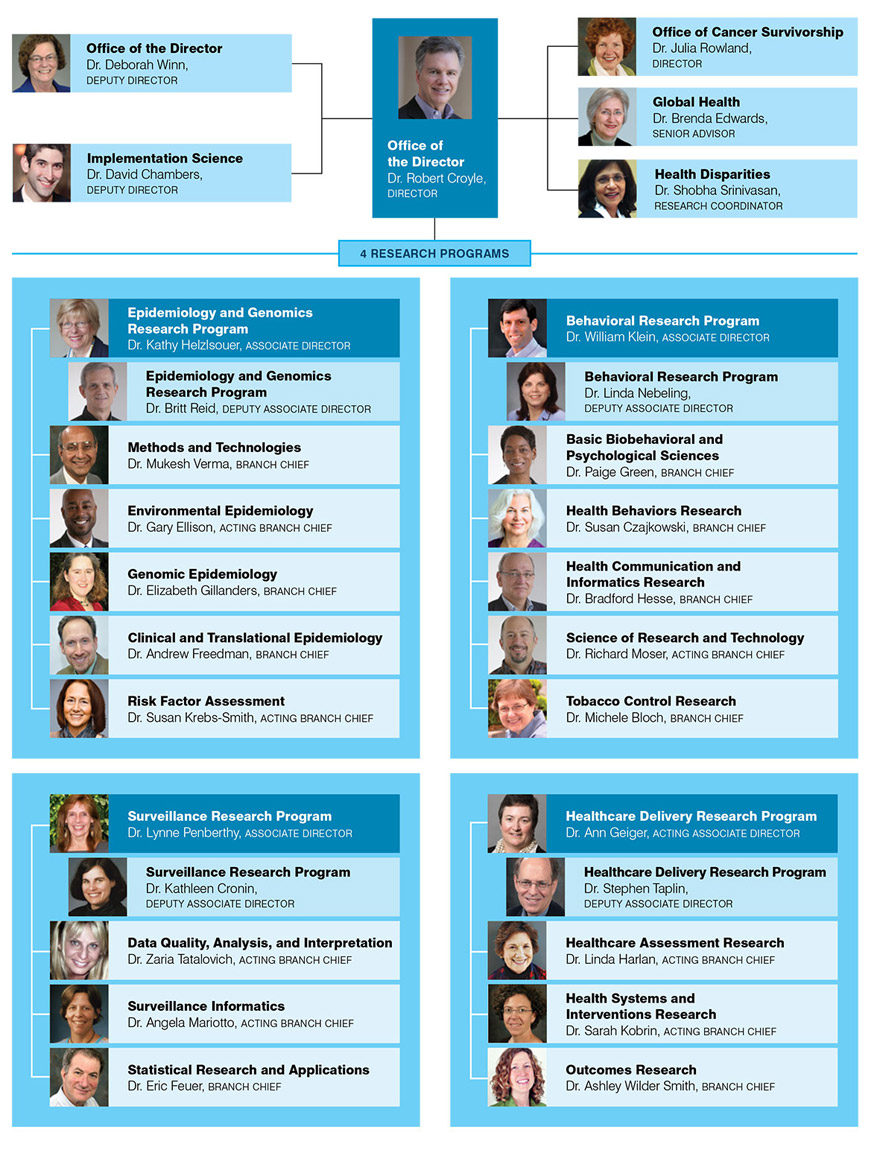
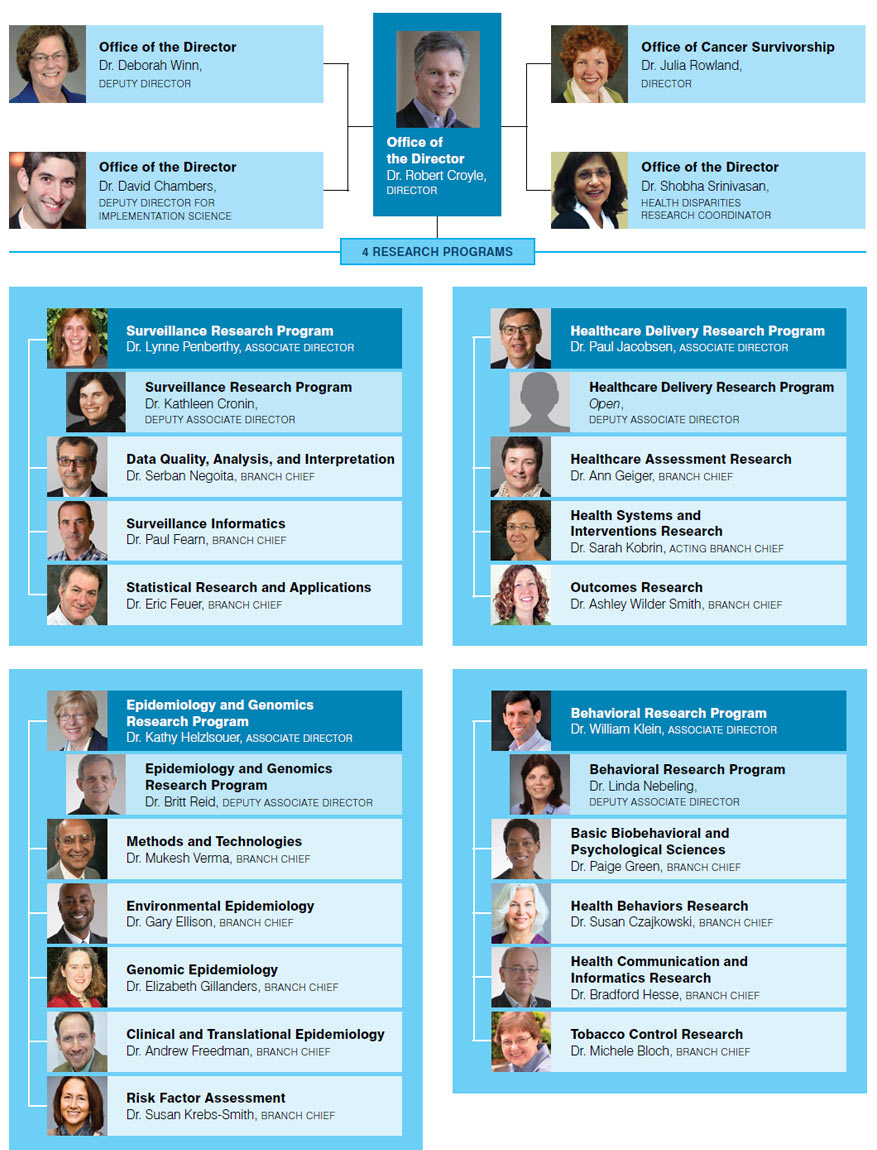
CD: Org Chart updates Former-commit-id: 762d2105123fce5dc7f2a93bcb85aca625cef169

diff --git a/od/orgchart.html b/od/orgchart.html
@@ -178,27 +178,26 @@ j=d.createElement(s),dl=l!='dataLayer'?'&l='+l:'';j.async=true;j.src=
                 <div class="span12 listimage">
                   <h1>DCCPS Organization</h1>
                   <img src="../images/bb_org-sm.jpg" alt="Orgchart" width="877" height="1150" border="0" usemap="#map3" />
-                  <map name="map3"><area shape="rect" coords="552,152,865,229" href="/populationhealthcenters/cphhd/" alt="Dr. Shobha Sirnivasan, Health Disparities Research Coordinator"><area shape="rect" coords="494,992,850,1054" href="http://healthcaredelivery.cancer.gov/about/" alt="Health Systems and Interventions Research - Dr. Sarah Korbin" ><area shape="rect" coords="493,927,852,989" href="http://healthcaredelivery.cancer.gov/about/" alt="Healthcare Assessment Research - Dr. Lynne Harlan" ><area shape="rect" coords="41,485,404,547" href="http://epi.grants.cancer.gov/eeb/" alt="Environmental Epidemiology - Dr. Gary Ellison"><area shape="rect" coords="510,864,853,924" href="http://healthcaredelivery.cancer.gov/about/staff/bios/taplin.html" alt="Health Services &amp; Economics Branch - Dr. Stephen Taplin, deputy associate director"><area shape="rect" coords="512,359,850,421" href="/brp/" alt="Behavioral Research Program - Dr. Linda Nebeling, deputy associate director">
-        <area shape="rect" coords="494,616,850,679" href="/brp/srtb/" alt="Science of Research &amp; Techonology Branch - Dr. William Riley">
-        <area shape="rect" coords="10,152,325,229" href="/IS/chambers.html" alt="Deputy Director for Implementation Science - Dr. David Chambers">
-        <area shape="rect" coords="46,1057,408,1119" href="https://surveillance.cancer.gov/branches/srab/" alt="Statistical Methodology and Applications - Dr. Eric Feuer">
-        <area shape="rect" coords="41,617,403,677" href="http://epi.grants.cancer.gov/cteb/" alt="Clinical and Translational Epidemiology Branch - Dr. Andrew Feedman">
-        <area shape="rect" coords="47,991,409,1053" href="https://surveillance.cancer.gov/branches/sib/" alt="Surveillance Informatics - Dr. Angela Mariotto">
-        <area shape="rect" coords="41,681,403,744" href="http://epi.grants.cancer.gov/staff/krebs-smith.html" alt="Risk Factor Assessment - Dr. Susan Krebs-Smith">
-        <area shape="rect" coords="494,682,851,742" href="/brp/tcrb/"  alt="Tobacco Control Research Branch - Dr. Michele Bloch (Acting)" >
-        <area shape="rect" coords="494,485,851,550" href="/brp/hbrb/index.html" alt="Health Behaviors Research Branch - Dr. Susan Czajkowski">
-        <area shape="rect" coords="494,550,850,611" href="/brp/hcirb/" alt="Health Communication &amp; Informatics Research Branch - Dr. Bradford Hesse">
-        <area shape="rect" coords="41,551,403,612" href="http://epi.grants.cancer.gov/geb/" alt="Genomic Epidemiology - Dr. Elizabeth Gillanders">
-        <area shape="rect" coords="46,927,409,989" href="https://surveillance.cancer.gov/branches/dqaib/" alt="Data Analysis &amp; Interpretation - Dr. Zaria Tatalovich">
-        <area shape="rect" coords="493,1057,850,1117" href="http://healthcaredelivery.cancer.gov/about/orb/" alt="Outcomes Research Branch - Dr. Ashley Wilder Smith" >
-        <area shape="rect" coords="493,424,849,484" href="/brp/bbpsb/index.html" alt="Basic Behavioral &amp; Research Branch - Dr. Paige Green" >
-        <area shape="rect" coords="59,358,402,419" href="http://epi.grants.cancer.gov/oad/" alt="Epidemiology &amp; Genomics Research Program - Dr. Britt Reid, deputy associate director">
-        <area shape="rect" coords="60,866,404,926" href="https://surveillance.cancer.gov/" alt="Surveillance Systems - Dr. Kathleen Cronin, deputy associate director">
-        <area shape="rect" coords="493,799,850,859" href="http://healthcaredelivery.cancer.gov/about/staff/bios/geiger.html" alt="Health Services &amp; Economics Branch - Dr. Ann Geiger, acting associate director">
-        <area shape="rect" coords="40,420,403,482" href="http://epi.grants.cancer.gov/mtb/" alt="Methods and Technologies Branch - Dr. Mukesh Verma">
-        <area shape="rect" coords="41,800,404,861" href="https://surveillance.cancer.gov/"  alt="Surveillance Research Program - Dr. Lynn Penberthy, associate director">
-        <area shape="rect" coords="492,294,850,356" href="/brp/" alt="Behavioral Research Program - Dr. William Klein, associate director">
-        <area shape="rect" coords="43,294,404,357" href="http://epi.grants.cancer.gov/oad/" alt="Epidemiology &amp; Genomics Research Program - Kathy Helzlsouer, M.D., M.H.S., associate director">
+                  <map name="map3"><area shape="rect" coords="552,152,865,229" href="/populationhealthcenters/cphhd/" alt="Dr. Shobha Sirnivasan, Health Disparities Research Coordinator"><area shape="rect" coords="491,500,847,562" href="http://healthcaredelivery.cancer.gov/about/" alt="Health Systems and Interventions Research - Dr. Sarah Korbin" ><area shape="rect" coords="491,308,850,370" href="http://healthcaredelivery.cancer.gov/about/" alt="Healthcare Assessment Research - Dr. Paul Jacobson" ><area shape="rect" coords="47,883,410,945" href="http://epi.grants.cancer.gov/eeb/" alt="Environmental Epidemiology - Dr. Gary Ellison"><area shape="rect" coords="510,373,853,433" href="http://healthcaredelivery.cancer.gov/about/" alt="Health Services &amp; Economics Branch - position open"><area shape="rect" coords="510,754,848,816" href="/brp/" alt="Behavioral Research Program - Dr. Linda Nebeling, deputy associate director">
+                    <area shape="rect" coords="10,152,325,229" href="/IS/chambers.html" alt="Deputy Director for Implementation Science - Dr. David Chambers">
+        <area shape="rect" coords="47,564,409,626" href="https://surveillance.cancer.gov/branches/srab/" alt="Statistical Methodology and Applications - Dr. Eric Feuer">
+        <area shape="rect" coords="46,1012,408,1072" href="http://epi.grants.cancer.gov/cteb/" alt="Clinical and Translational Epidemiology Branch - Dr. Andrew Feedman">
+        <area shape="rect" coords="47,500,409,562" href="https://surveillance.cancer.gov/branches/sib/" alt="Surveillance Informatics - Dr. Paul Fearn">
+        <area shape="rect" coords="46,1075,408,1138" href="http://epi.grants.cancer.gov/staff/krebs-smith.html" alt="Risk Factor Assessment - Dr. Susan Krebs-Smith">
+        <area shape="rect" coords="492,1011,849,1071" href="/brp/tcrb/"  alt="Tobacco Control Research Branch - Dr. Michele Bloch (Acting)" >
+        <area shape="rect" coords="492,883,849,944" href="/brp/hbrb/index.html" alt="Health Behaviors Research Branch - Dr. Susan Czajkowski">
+        <area shape="rect" coords="492,947,848,1008" href="/brp/hcirb/" alt="Health Communication &amp; Informatics Research Branch - Dr. Bradford Hesse">
+        <area shape="rect" coords="47,947,409,1008" href="http://epi.grants.cancer.gov/geb/" alt="Genomic Epidemiology - Dr. Elizabeth Gillanders">
+        <area shape="rect" coords="46,436,409,498" href="https://surveillance.cancer.gov/branches/dqaib/" alt="Data Analysis &amp; Interpretation - Dr. Serban Negoita">
+        <area shape="rect" coords="491,565,848,625" href="http://healthcaredelivery.cancer.gov/about/orb/" alt="Outcomes Research Branch - Dr. Ashley Wilder Smith" >
+        <area shape="rect" coords="492,819,847,880" href="/brp/bbpsb/index.html" alt="Basic Behavioral &amp; Research Branch - Dr. Paige Green" >
+        <area shape="rect" coords="66,753,403,816" href="http://epi.grants.cancer.gov/oad/" alt="Epidemiology &amp; Genomics Research Program - Dr. Britt Reid, deputy associate director">
+        <area shape="rect" coords="65,372,403,432" href="https://surveillance.cancer.gov/" alt="Surveillance Systems - Dr. Kathleen Cronin, deputy associate director">
+        <area shape="rect" coords="490,436,847,496" href="http://healthcaredelivery.cancer.gov/about/staff/bios/geiger.html" alt="Health Services &amp; Economics Branch - Dr. Ann Geiger">
+        <area shape="rect" coords="46,818,409,880" href="http://epi.grants.cancer.gov/mtb/" alt="Methods and Technologies Branch - Dr. Mukesh Verma">
+        <area shape="rect" coords="45,308,404,369" href="https://surveillance.cancer.gov/"  alt="Surveillance Research Program - Dr. Lynn Penberthy, associate director">
+        <area shape="rect" coords="491,690,849,752" href="/brp/" alt="Behavioral Research Program - Dr. William Klein, associate director">
+        <area shape="rect" coords="47,689,402,752" href="http://epi.grants.cancer.gov/oad/" alt="Epidemiology &amp; Genomics Research Program - Kathy Helzlsouer, M.D., M.H.S., associate director">
         <area shape="rect" coords="7,23,323,103" href="dep_director_dw.html" alt="Deputy Director Dr. Deborah M. Winn">
       <area shape="rect" coords="373,10,505,217" href="view_rtc.html" alt="Officer of the Director Dr. Robert T Croyle, Director">
       <area shape="rect" coords="551,26,865,103" href="/ocs/" alt="Office of Cancer Survivorship - Dr. Julia H. Rowland, Director"></map>
@@ -276,7 +275,7 @@ j=d.createElement(s),dl=l!='dataLayer'?'&l='+l:'';j.async=true;j.src=
           </div>
            </div>
        <div class="last-updated">
-       <p class="center"><strong>Last Updated: <!-- InstanceBeginEditable name="Last Updated" -->February 8, 2016<!-- InstanceEndEditable --></strong></p>
+       <p class="center"><strong>Last Updated: <!-- InstanceBeginEditable name="Last Updated" -->September 6, 2016<!-- InstanceEndEditable --></strong></p>
        <a href="http://www.cancer.gov/contact" class="help-image"><img class="footer-help" src="/images/footer-help-logo.png" alt="help-logo" /></a><p class="can-numb"><strong>1-800-4-CANCER <br /> (1-800-422-6237)</strong></p>
        </div>
        </div><!--/row-->

diff --git a/od/meet_staff.html b/od/meet_staff.html
@@ -214,8 +214,7 @@ j=d.createElement(s),dl=l!='dataLayer'?'&l='+l:'';j.async=true;j.src=
                         <div class="span6">
                         <ul>
                           <li><a href="http://staffprofiles.cancer.gov/brp/prgmStaffList.do?listCodeId=52811&listType=stf">Health Behaviors Research Branch</a> </li>
-                          <li><a href="http://staffprofiles.cancer.gov/brp/prgmStaffList.do?listCodeId=52812&listType=stf">Basic Biobehavioral and Psychological Sciences Branch</a> </li>
-                          <li><a href="http://staffprofiles.cancer.gov/brp/prgmStaffList.do?listCodeId=1532933&listType=stf">Science of Research and Technology Branch</a></li>
+                          <li><a href="http://staffprofiles.cancer.gov/brp/prgmStaffList.do?listCodeId=52812&listType=stf">Basic Biobehavioral and Psychological Sciences Branch</a></li>
                         </ul>
                         </div>
                       </div>
